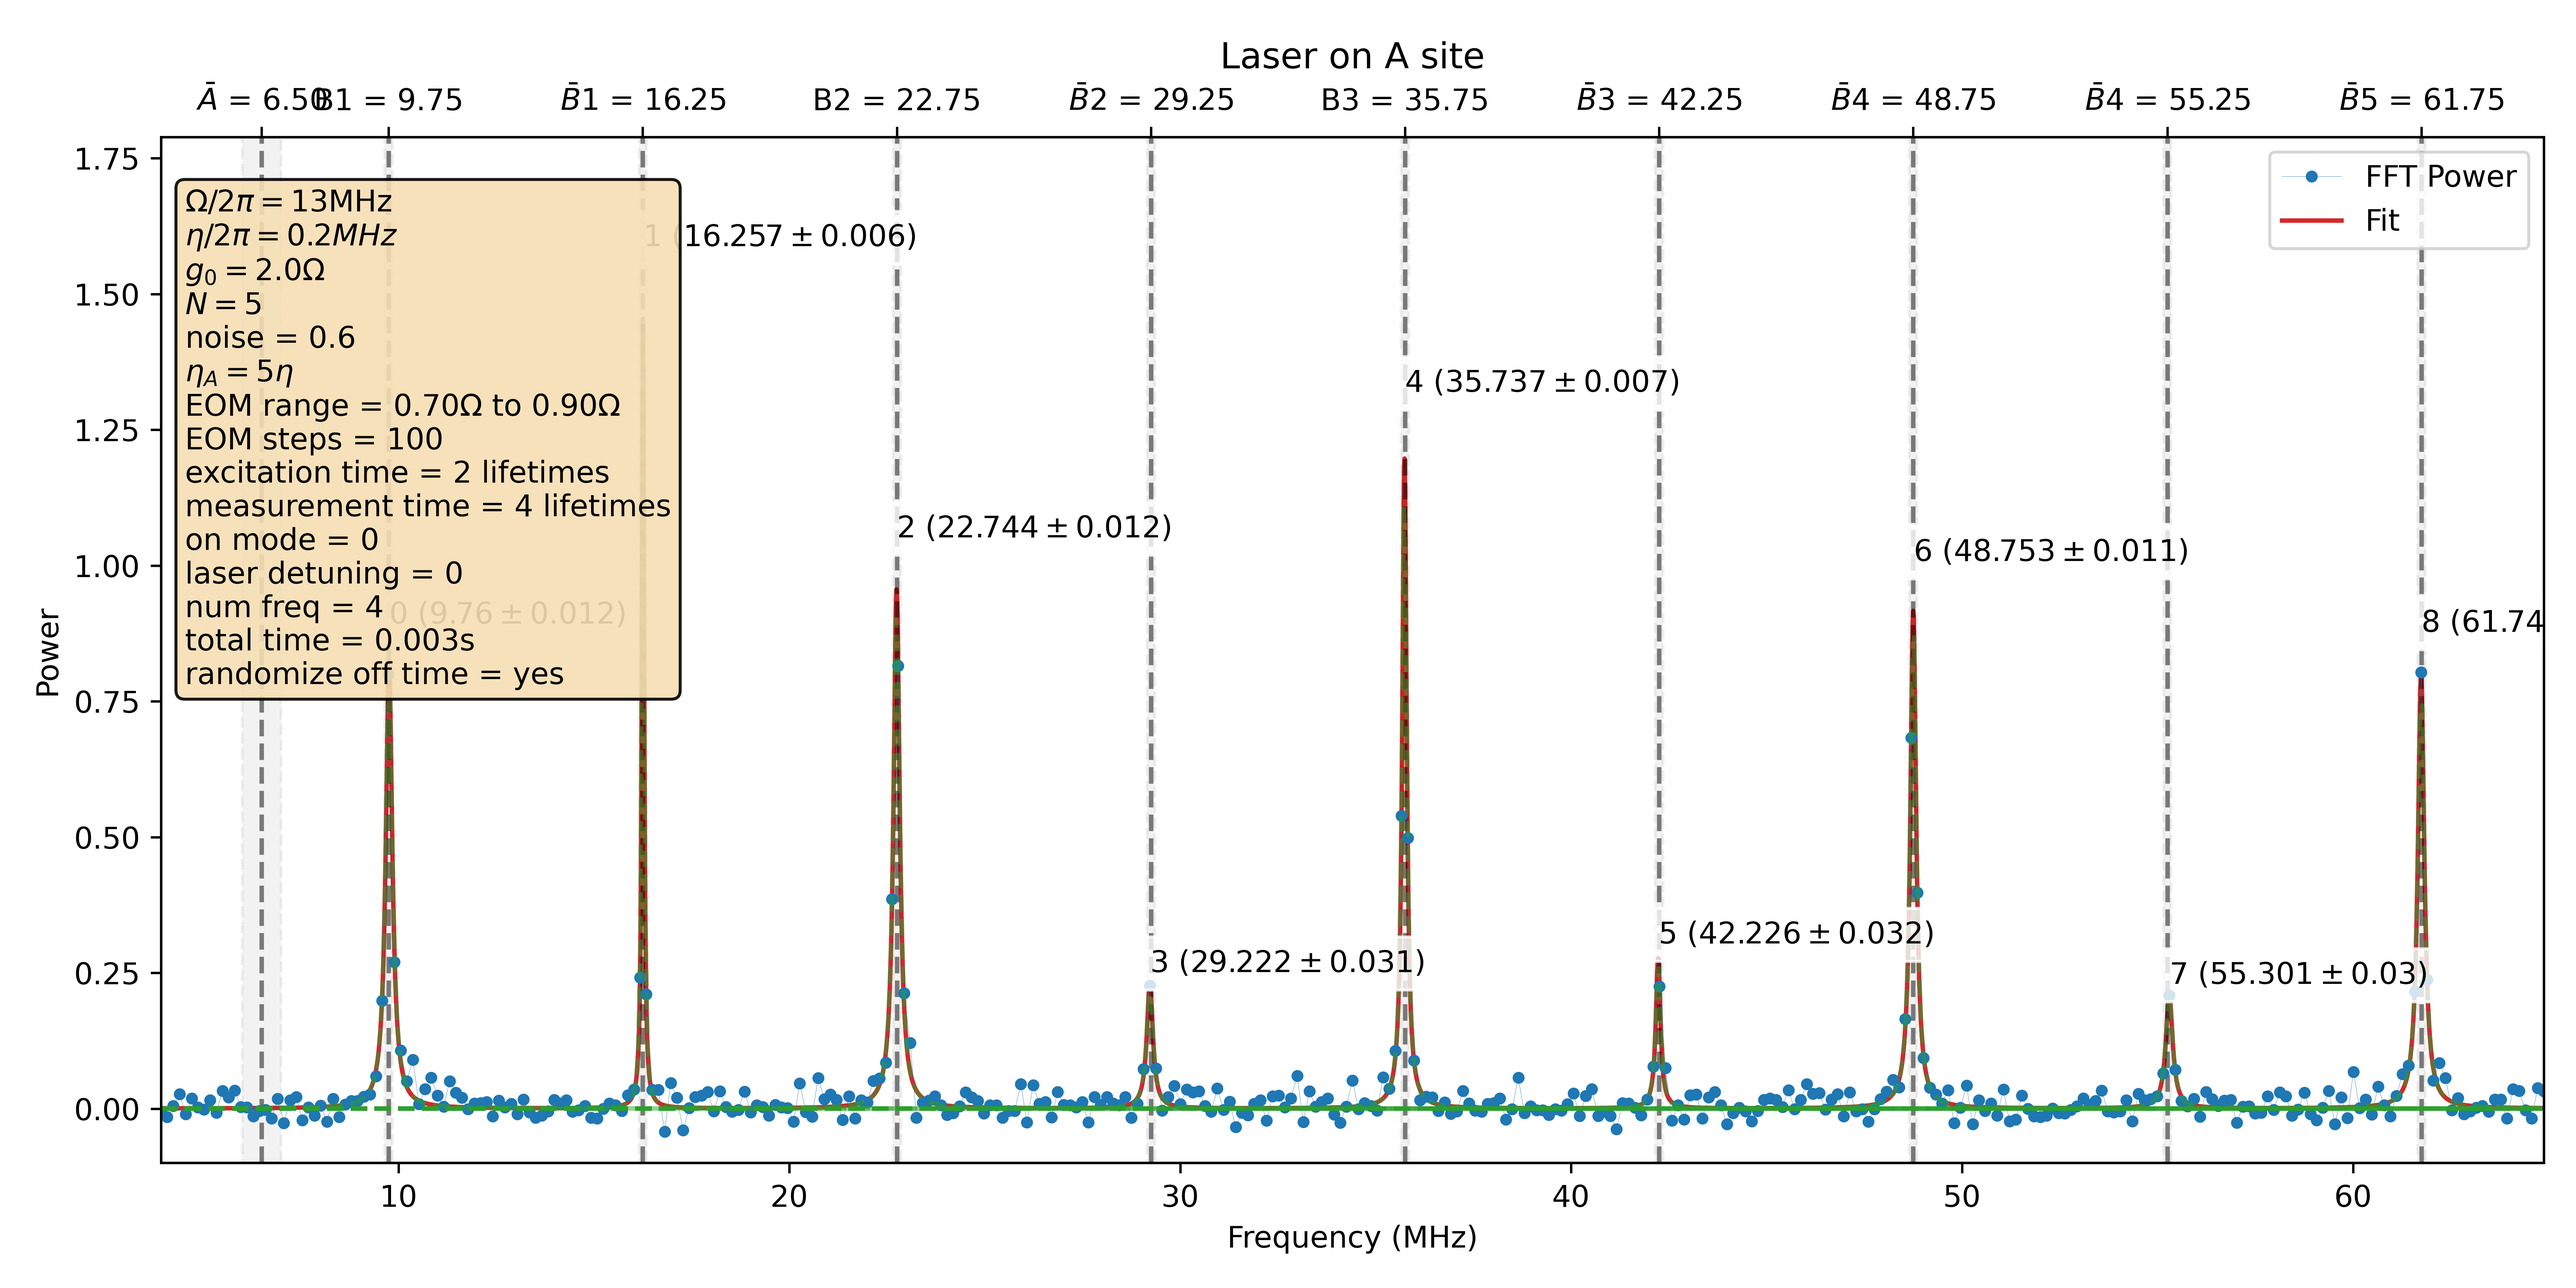
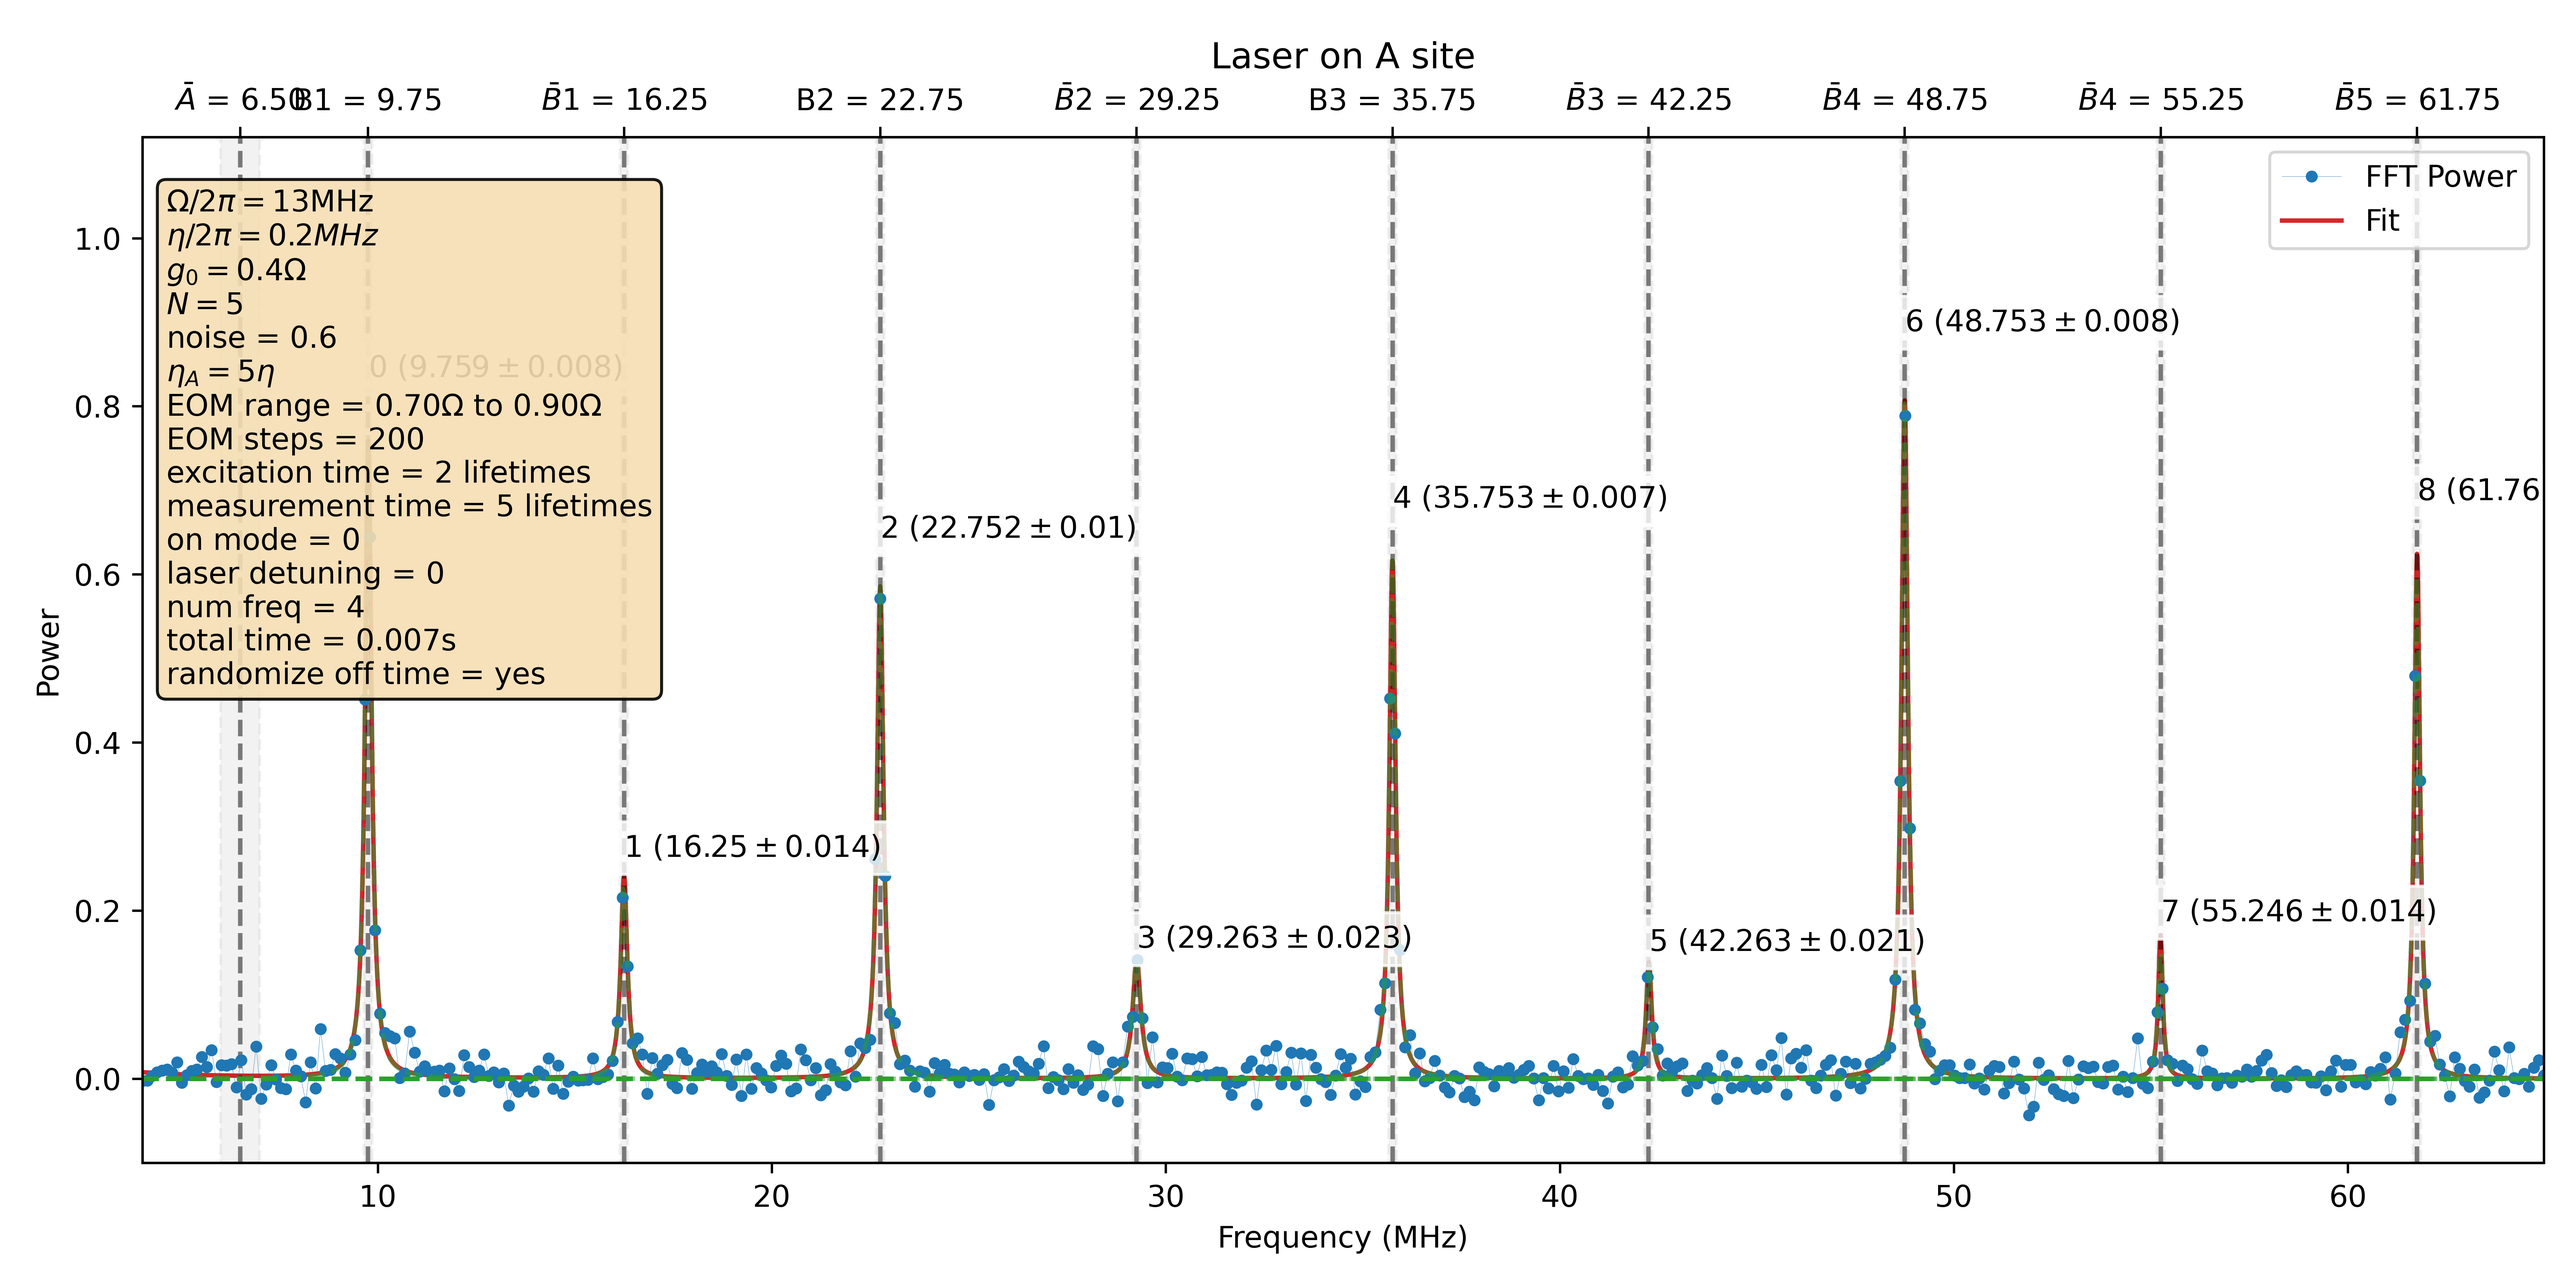
FIX: report correct coupling strenght

diff --git a/scripts/simulations/002_calibration_demonstration.py b/scripts/simulations/002_calibration_demonstration.py
@@ -323,7 +323,7 @@ def generate_data(
         0.95,
         f"""$Ω/2π = {params.Ω}$MHz
 $η/2π = {params.η}MHz$
-$g_0 = {params.g_0}Ω$
+$g_0 = {g_0}Ω$
 $N = {params.N}$
 noise = ${noise_amplitude * 2}$
 $η_A = {η_factor}η$
@@ -358,16 +358,16 @@ randomize off time = {'yes' if randomize_off_time else 'no'} """,
 # %% save
 if __name__ == "__main__":
     generate_data(
-        g_0=0.5,
+        g_0=0.4,
         η_factor=5,
         noise_amplitude=0.3,
         N=5,
         eom_ranges=(0.7, 0.9),
-        eom_steps=100,
+        eom_steps=200,
         laser_detuning=0,
         laser_on_mode=0,
         excitation_lifetimes=2,
-        measurement_lifetimes=4,
+        measurement_lifetimes=5,
         num_freq=4,
         randomize_off_time=True,
         extra_title="Laser on A site",
